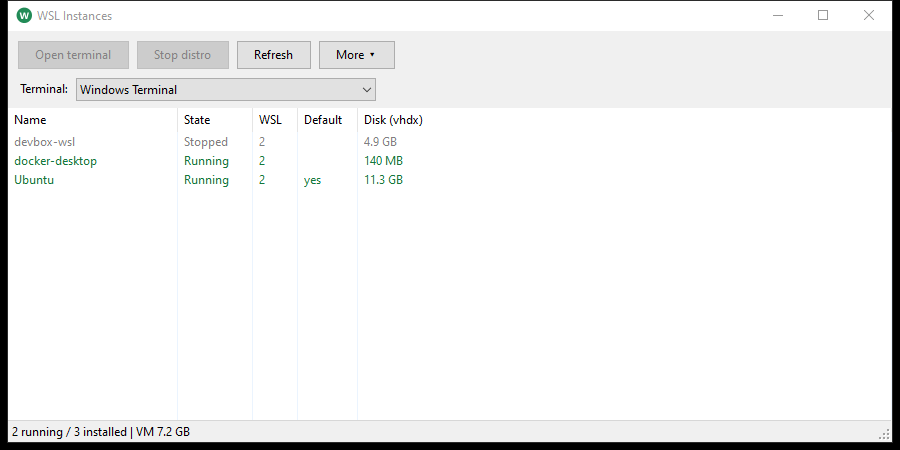
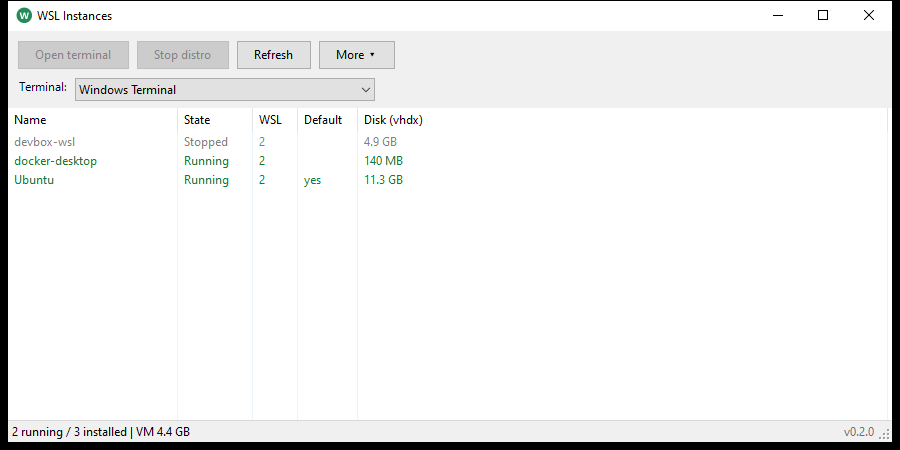
docs: screenshots for the tray menu, update README usage

diff --git a/README.md b/README.md
@@ -2,7 +2,11 @@
 
 A tiny Windows tray app that shows your WSL2 distros and opens a terminal in any of them.
 
-![WslTray window](docs/screenshot.png)
+Click the tray icon for a menu of your distros; open the full window when you want more detail.
+
+![WslTray tray menu](docs/menu.png)
+
+![WslTray window](docs/window.png)
 
 ## Download
 
@@ -20,7 +24,10 @@ This produces `bin\WslTray.exe`. Set `WSLTRAY_VERSION` (e.g. `0.1.1`) first to s
 
 ## Use
 
-Run `bin\WslTray.exe`; it sits in the tray (left-click opens the window). Double-click a distro to open a terminal.
+Run `bin\WslTray.exe`; it sits in the tray. Click the icon (left or right) for the menu:
+
+- **Distros:** running ones are marked `●`, stopped ones `○`. Click one to open a terminal in it; its submenu has **Open terminal**, **Stop** and **Set default**.
+- **Open window...** shows the full window (disk size, WSL version, VM memory). Double-click a distro there to open a terminal.
 
 - **Terminal:** pick from the installed terminals (or a custom command using `{name}`) in the tray menu or window. Saved in `HKCU\Software\WslTray`.
 - **Flags:** `--show`, `--probe` (JSON state), `--selftest`, `--autostart on|off`.
